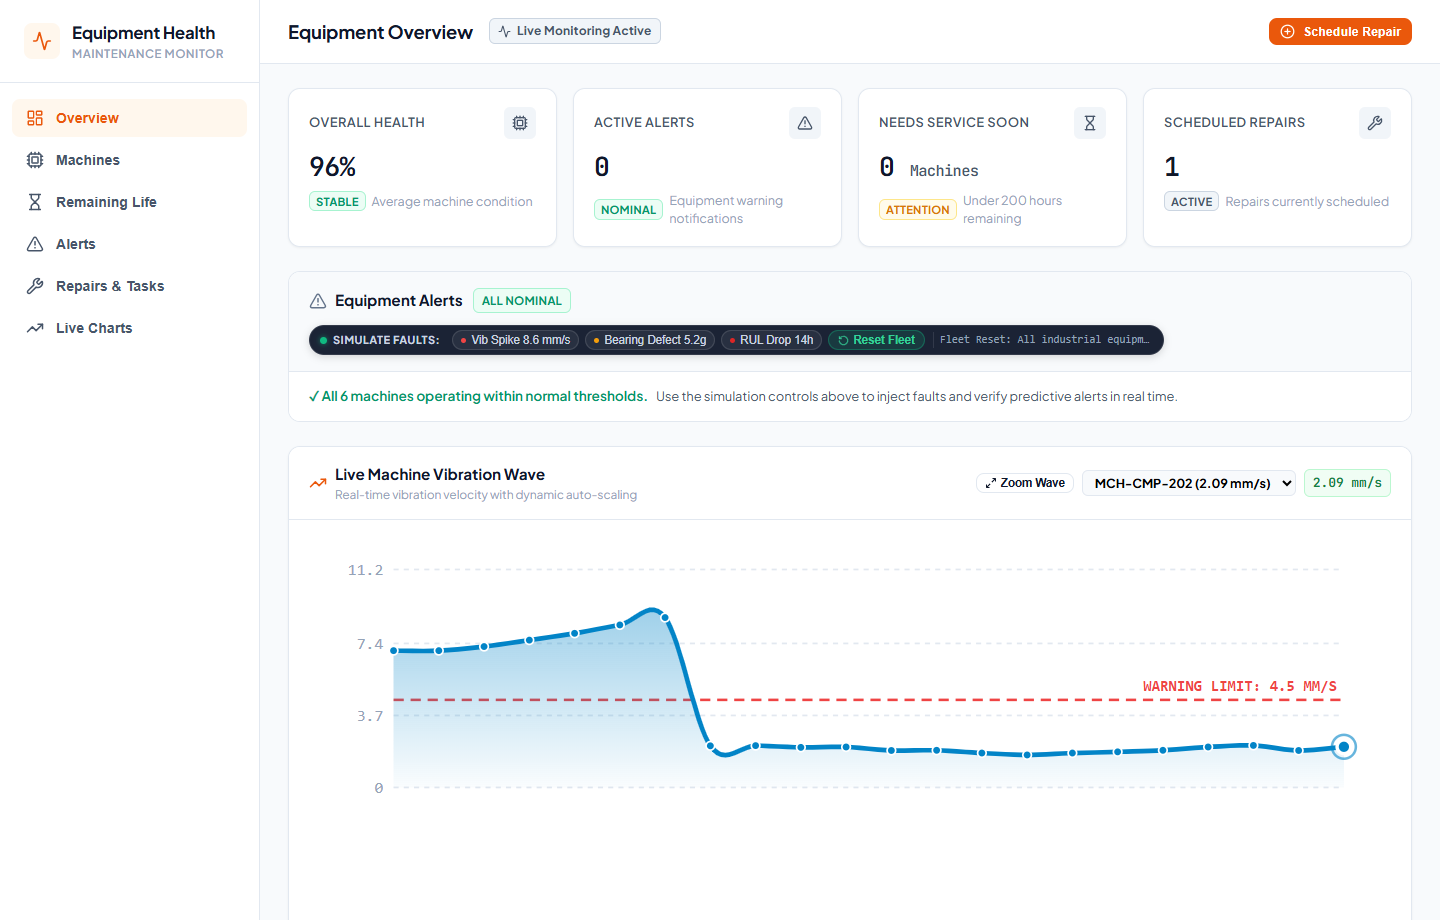
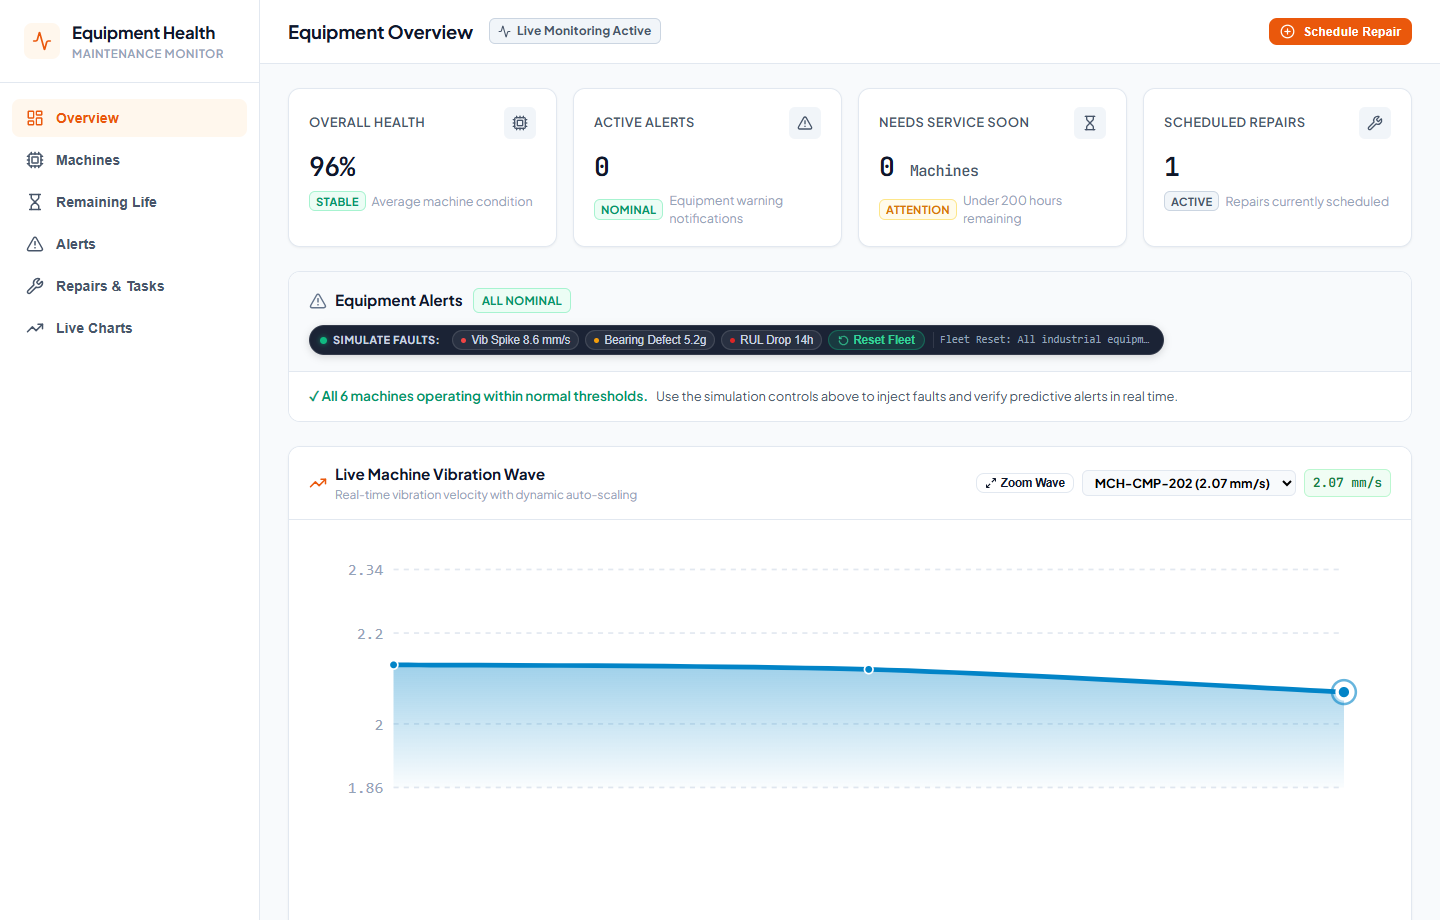
perf: stream real-time telemetry and fleet overview at 1s intervals with parallel persistence

Changed region(s): [[0.25, 0.6391, 0.9375, 0.8217], [0.8438, 0.5174, 0.875, 0.5478]]

diff --git a/server/services/simulator.js b/server/services/simulator.js
@@ -5,128 +5,162 @@ const AnomalyAlert = require('../models/AnomalyAlert');
 const MaintenanceAction = require('../models/MaintenanceAction');
 
 let simTick = 0;
+let tickCount = 0;
+let isProcessing = false;
+let cachedCounts = null;
+let countsRefreshedAt = 0;
+const COUNTS_TTL_MS = 5000;
 
 const startTelemetrySimulator = (io) => {
-  console.log('Predictive Maintenance & RUL Simulator active (3s heartbeat, dynamic wave oscillation)');
+  console.log('Predictive Maintenance & RUL Simulator active (1s heartbeat, dynamic wave oscillation)');
 
   setInterval(async () => {
+    if (isProcessing || mongoose.connection.readyState !== 1) return;
+    isProcessing = true;
     try {
-      if (mongoose.connection.readyState !== 1) return;
       const machines = await Machine.find();
       if (!machines || machines.length === 0) return;
 
       simTick += 0.25;
+      tickCount++;
       const updatedMachines = [];
 
-      for (const m of machines) {
-        const seed = (m.machineId && typeof m.machineId === 'string')
-          ? m.machineId.charCodeAt(m.machineId.length - 1)
-          : 42;
-        const wave = Math.sin(simTick + seed);
-        const noise = (Math.random() - 0.5);
+      await Promise.all(
+        machines.map(async (m) => {
+          const seed = (m.machineId && typeof m.machineId === 'string')
+            ? m.machineId.charCodeAt(m.machineId.length - 1)
+            : 42;
+          const wave = Math.sin(simTick + seed);
+          const noise = (Math.random() - 0.5);
 
-        let newVib = m.currentVibrationRms;
-        let newTemp = m.currentTempC;
-        let newPeakG = m.currentBearingPeakG;
-        let newRpm = 1800 + Math.round(wave * 25 + noise * 10);
-        let newAmps = 18.5 + +(wave * 1.2 + noise * 0.4).toFixed(1);
-        let newDb = 58 + Math.round(wave * 3 + noise * 2);
+          let newVib = m.currentVibrationRms;
+          let newTemp = m.currentTempC;
+          let newPeakG = m.currentBearingPeakG;
+          let newRpm = 1800 + Math.round(wave * 25 + noise * 10);
+          let newAmps = 18.5 + +(wave * 1.2 + noise * 0.4).toFixed(1);
+          let newDb = 58 + Math.round(wave * 3 + noise * 2);
 
-        if (m.status === 'HEALTHY') {
-          // Keep in safe healthy range
-          newVib = +(1.8 + wave * 0.35 + noise * 0.15).toFixed(2);
-          if (newVib < 0.8) newVib = 0.8;
-          newPeakG = +(0.85 + wave * 0.18 + noise * 0.08).toFixed(2);
-          newTemp = +(52.0 + wave * 1.5 + noise * 0.5).toFixed(1);
-        } else if (m.status === 'EARLY_DEGRADATION') {
-          // Moderate oscillation
-          newVib = +(3.8 + wave * 0.5 + noise * 0.25).toFixed(2);
-          newPeakG = +(2.1 + wave * 0.3 + noise * 0.1).toFixed(2);
-          newTemp = +(68.0 + wave * 2.0 + noise * 0.8).toFixed(1);
-          newDb = 72 + Math.round(wave * 4);
-        } else {
-          // SEVERE_ANOMALY or CRITICAL_SHUTDOWN (from scenario)
-          newVib = +(m.currentVibrationRms + wave * 0.4 + noise * 0.2).toFixed(2);
-          if (newVib < 5.5) newVib = 5.5;
-          newPeakG = +(m.currentBearingPeakG + wave * 0.2 + noise * 0.1).toFixed(2);
-          newTemp = +(m.currentTempC + wave * 1.0 + noise * 0.3).toFixed(1);
-          newDb = 88 + Math.round(wave * 5);
-        }
+          if (m.status === 'HEALTHY') {
+            newVib = +(1.8 + wave * 0.35 + noise * 0.15).toFixed(2);
+            if (newVib < 0.8) newVib = 0.8;
+            newPeakG = +(0.85 + wave * 0.18 + noise * 0.08).toFixed(2);
+            newTemp = +(52.0 + wave * 1.5 + noise * 0.5).toFixed(1);
+          } else if (m.status === 'EARLY_DEGRADATION') {
+            newVib = +(3.8 + wave * 0.5 + noise * 0.25).toFixed(2);
+            newPeakG = +(2.1 + wave * 0.3 + noise * 0.1).toFixed(2);
+            newTemp = +(68.0 + wave * 2.0 + noise * 0.8).toFixed(1);
+            newDb = 72 + Math.round(wave * 4);
+          } else {
+            newVib = +(m.currentVibrationRms + wave * 0.4 + noise * 0.2).toFixed(2);
+            if (newVib < 5.5) newVib = 5.5;
+            newPeakG = +(m.currentBearingPeakG + wave * 0.2 + noise * 0.1).toFixed(2);
+            newTemp = +(m.currentTempC + wave * 1.0 + noise * 0.3).toFixed(1);
+            newDb = 88 + Math.round(wave * 5);
+          }
 
-        // Evaluate physical status
-        let status = m.status;
-        let health = m.healthScore;
-        let anomalyScore = m.anomalyScore;
+          let status = m.status;
+          let health = m.healthScore;
+          let anomalyScore = m.anomalyScore;
 
-        if (newVib >= m.warningVibrationRms * 1.4 || newPeakG >= 4.0 || newTemp >= 80) {
-          status = 'CRITICAL_SHUTDOWN';
-          health = Math.min(health, 35);
-          anomalyScore = Math.max(anomalyScore, 0.88);
-        } else if (newVib >= m.warningVibrationRms || newPeakG >= 2.5 || newTemp >= m.warningTempC) {
-          if (status !== 'CRITICAL_SHUTDOWN') status = 'SEVERE_ANOMALY';
-          health = Math.min(health, 55);
-          anomalyScore = Math.max(anomalyScore, 0.65);
-        } else if (newVib >= 3.2 || newPeakG >= 1.8) {
-          if (status === 'HEALTHY') status = 'EARLY_DEGRADATION';
-        }
+          if (newVib >= m.warningVibrationRms * 1.4 || newPeakG >= 4.0 || newTemp >= 80) {
+            status = 'CRITICAL_SHUTDOWN';
+            health = Math.min(health, 35);
+            anomalyScore = Math.max(anomalyScore, 0.88);
+          } else if (newVib >= m.warningVibrationRms || newPeakG >= 2.5 || newTemp >= m.warningTempC) {
+            if (status !== 'CRITICAL_SHUTDOWN') status = 'SEVERE_ANOMALY';
+            health = Math.min(health, 55);
+            anomalyScore = Math.max(anomalyScore, 0.65);
+          } else if (newVib >= 3.2 || newPeakG >= 1.8) {
+            if (status === 'HEALTHY') status = 'EARLY_DEGRADATION';
+          }
 
-        m.currentVibrationRms = newVib;
-        m.currentTempC = newTemp;
-        m.currentBearingPeakG = newPeakG;
-        m.healthScore = health;
-        m.status = status;
-        m.anomalyScore = anomalyScore;
-        await m.save();
+          const originalState = {
+            currentVibrationRms: m.currentVibrationRms,
+            currentTempC: m.currentTempC,
+            currentBearingPeakG: m.currentBearingPeakG,
+            healthScore: m.healthScore,
+            status: m.status,
+            anomalyScore: m.anomalyScore
+          };
 
-        // Save telemetry record
-        const telemetry = new TelemetryReading({
-          machineId: m.machineId,
-          timestamp: new Date(),
-          vibrationRms: newVib,
-          bearingPeakG: newPeakG,
-          tempC: newTemp,
-          acousticEmissionDb: newDb,
-          motorCurrentAmps: newAmps,
-          rpm: newRpm,
-          anomalyFlag: status !== 'HEALTHY'
-        });
-        await telemetry.save();
+          m.currentVibrationRms = newVib;
+          m.currentTempC = newTemp;
+          m.currentBearingPeakG = newPeakG;
+          m.healthScore = health;
+          m.status = status;
+          m.anomalyScore = anomalyScore;
 
-        // Broadcast live telemetry point
-        io.emit('telemetry:stream', {
-          machineId: m.machineId,
-          telemetry,
-          machine: m
-        });
+          const telemetry = new TelemetryReading({
+            machineId: m.machineId,
+            timestamp: new Date(),
+            vibrationRms: newVib,
+            bearingPeakG: newPeakG,
+            tempC: newTemp,
+            acousticEmissionDb: newDb,
+            motorCurrentAmps: newAmps,
+            rpm: newRpm,
+            anomalyFlag: status !== 'HEALTHY'
+          });
 
-        updatedMachines.push(m);
+          let machineSaved = false;
+          try {
+            await m.save();
+            machineSaved = true;
+            await telemetry.save();
+            io.emit('telemetry:stream', {
+              machineId: m.machineId,
+              telemetry,
+              machine: m
+            });
+            updatedMachines.push(m);
+          } catch (e) {
+            console.error(`Simulator error saving ${m.machineId}:`, e.message);
+            if (!machineSaved) {
+              Object.assign(m, originalState);
+            }
+          }
+        })
+      );
+
+      if (updatedMachines.length === 0) return;
+
+      // Memory aggregation for instant broadcast across fleet using persisted machine states
+      const healthyCount = machines.filter(m => m.status === 'HEALTHY').length;
+      const earlyDegradationCount = machines.filter(m => m.status === 'EARLY_DEGRADATION').length;
+      const severeAnomalyCount = machines.filter(m => m.status === 'SEVERE_ANOMALY' || m.status === 'CRITICAL_SHUTDOWN').length;
+      const criticalRulCount = machines.filter(m => m.predictedRulHours <= 200).length;
+      const avgHealth = Math.round(machines.reduce((acc, m) => acc + (m.healthScore || 0), 0) / machines.length);
+
+      // Refresh alert counts every 5 seconds based on staleness and TTL
+      if (!cachedCounts || Date.now() - countsRefreshedAt >= COUNTS_TTL_MS) {
+        const [openAnomalies, criticalAnomalies, activeWorkOrders] = await Promise.all([
+          AnomalyAlert.countDocuments({ status: { $ne: 'RESOLVED' } }),
+          AnomalyAlert.countDocuments({ severity: 'CRITICAL', status: { $ne: 'RESOLVED' } }),
+          MaintenanceAction.countDocuments({ status: { $ne: 'COMPLETED' } })
+        ]);
+        cachedCounts = { openAnomalies, criticalAnomalies, activeWorkOrders };
+        countsRefreshedAt = Date.now();
       }
 
-      // Broadcast overview update
-      const openAnomalies = await AnomalyAlert.countDocuments({ status: { $ne: 'RESOLVED' } });
-      const criticalAnomalies = await AnomalyAlert.countDocuments({ severity: 'CRITICAL', status: { $ne: 'RESOLVED' } });
-      const criticalRulCount = updatedMachines.filter(m => m.predictedRulHours <= 200).length;
-      const activeWorkOrders = await MaintenanceAction.countDocuments({ status: { $ne: 'COMPLETED' } });
-      const avgHealth = Math.round(updatedMachines.reduce((acc, m) => acc + (m.healthScore || 0), 0) / updatedMachines.length);
-
+      // Emit overview update on every tick for real-time responsiveness
       io.emit('overview:update', {
-        totalMachines: updatedMachines.length,
+        totalMachines: machines.length,
         avgHealth,
-        openAnomalies,
-        criticalAnomalies,
+        ...cachedCounts,
         criticalRulCount,
-        activeWorkOrders,
         fleetDistribution: {
-          healthy: updatedMachines.filter(m => m.status === 'HEALTHY').length,
-          earlyDegradation: updatedMachines.filter(m => m.status === 'EARLY_DEGRADATION').length,
-          severeAnomaly: updatedMachines.filter(m => m.status === 'SEVERE_ANOMALY' || m.status === 'CRITICAL_SHUTDOWN').length
+          healthy: healthyCount,
+          earlyDegradation: earlyDegradationCount,
+          severeAnomaly: severeAnomalyCount
         }
       });
 
     } catch (err) {
       console.error('Simulator heartbeat error:', err.message);
+    } finally {
+      isProcessing = false;
     }
-  }, 3000);
+  }, 1000);
 };
 
 module.exports = { startTelemetrySimulator };

diff --git a/client/src/pages/FleetOverview.jsx b/client/src/pages/FleetOverview.jsx
@@ -5,6 +5,8 @@ import { StatusBadge } from '../components/StatusBadge';
 import { VibrationWaveChart } from '../components/VibrationWaveChart';
 import { SimulationCockpit } from '../components/SimulationCockpit';
 
+const EMPTY_STREAM = [];
+
 export const FleetOverview = ({ 
   overview, 
   machines = [], 
@@ -25,7 +27,9 @@ export const FleetOverview = ({
   const chartMachineId = selectedMachineId || latestAlert?.machineId || (machines.find(m => m.status !== 'HEALTHY')?.machineId) || machines[0]?.machineId;
   const activeMachine = machines.find(m => m.machineId === chartMachineId) || machines[0];
 
-  const currentStream = activeMachine ? (telemetryStream[activeMachine.machineId] || []) : [];
+  const currentStream = (activeMachine && telemetryStream[activeMachine.machineId]) 
+    ? telemetryStream[activeMachine.machineId] 
+    : EMPTY_STREAM;
 
   return (
     <div style={{ display: 'flex', flexDirection: 'column', gap: 24 }}>
@@ -189,6 +193,7 @@ export const FleetOverview = ({
         machines={machines}
         selectedMachineId={chartMachineId}
         onSelectMachine={id => setSelectedMachineId(id)}
+        liveStream={currentStream}
       />
 
       {/* 4. Fleet Health Roster Grid */}
@@ -199,7 +204,7 @@ export const FleetOverview = ({
             <span>Equipment Fleet (6 Machines)</span>
           </div>
           <span style={{ fontSize: '0.8rem', color: 'var(--text-dim)' }}>
-            Live readings updating every 3s — click any machine to focus chart
+            Live readings updating every 1s — click any machine to focus chart
           </span>
         </div>
         <div className="panel-body">

diff --git a/client/src/components/VibrationWaveChart.jsx b/client/src/components/VibrationWaveChart.jsx
@@ -49,22 +49,10 @@ export const VibrationWaveChart = ({
 
   // Append live telemetry when machine updates via WebSocket or stream
   useEffect(() => {
-    if (targetMachine && telemetryHistory.length > 0) {
-      const lastPoint = telemetryHistory[telemetryHistory.length - 1];
-      if (Math.abs((lastPoint.vibrationRms || 0) - (targetMachine.currentVibrationRms || 0)) > 0.02) {
-        setTelemetryHistory(prev => [
-          ...prev.slice(-24),
-          {
-            timestamp: new Date().toISOString(),
-            machineId: targetMachine.machineId,
-            vibrationRms: targetMachine.currentVibrationRms,
-            tempC: targetMachine.currentTempC,
-            bearingPeakG: targetMachine.currentBearingPeakG
-          }
-        ]);
-      }
+    if (Array.isArray(liveStream) && liveStream.length > 0) {
+      setTelemetryHistory(liveStream);
     }
-  }, [targetMachine?.currentVibrationRms, targetMachine?.currentTempC]);
+  }, [liveStream]);
 
   // Chart dimensions matching Hydrogen project exactly
   const width = 640;
